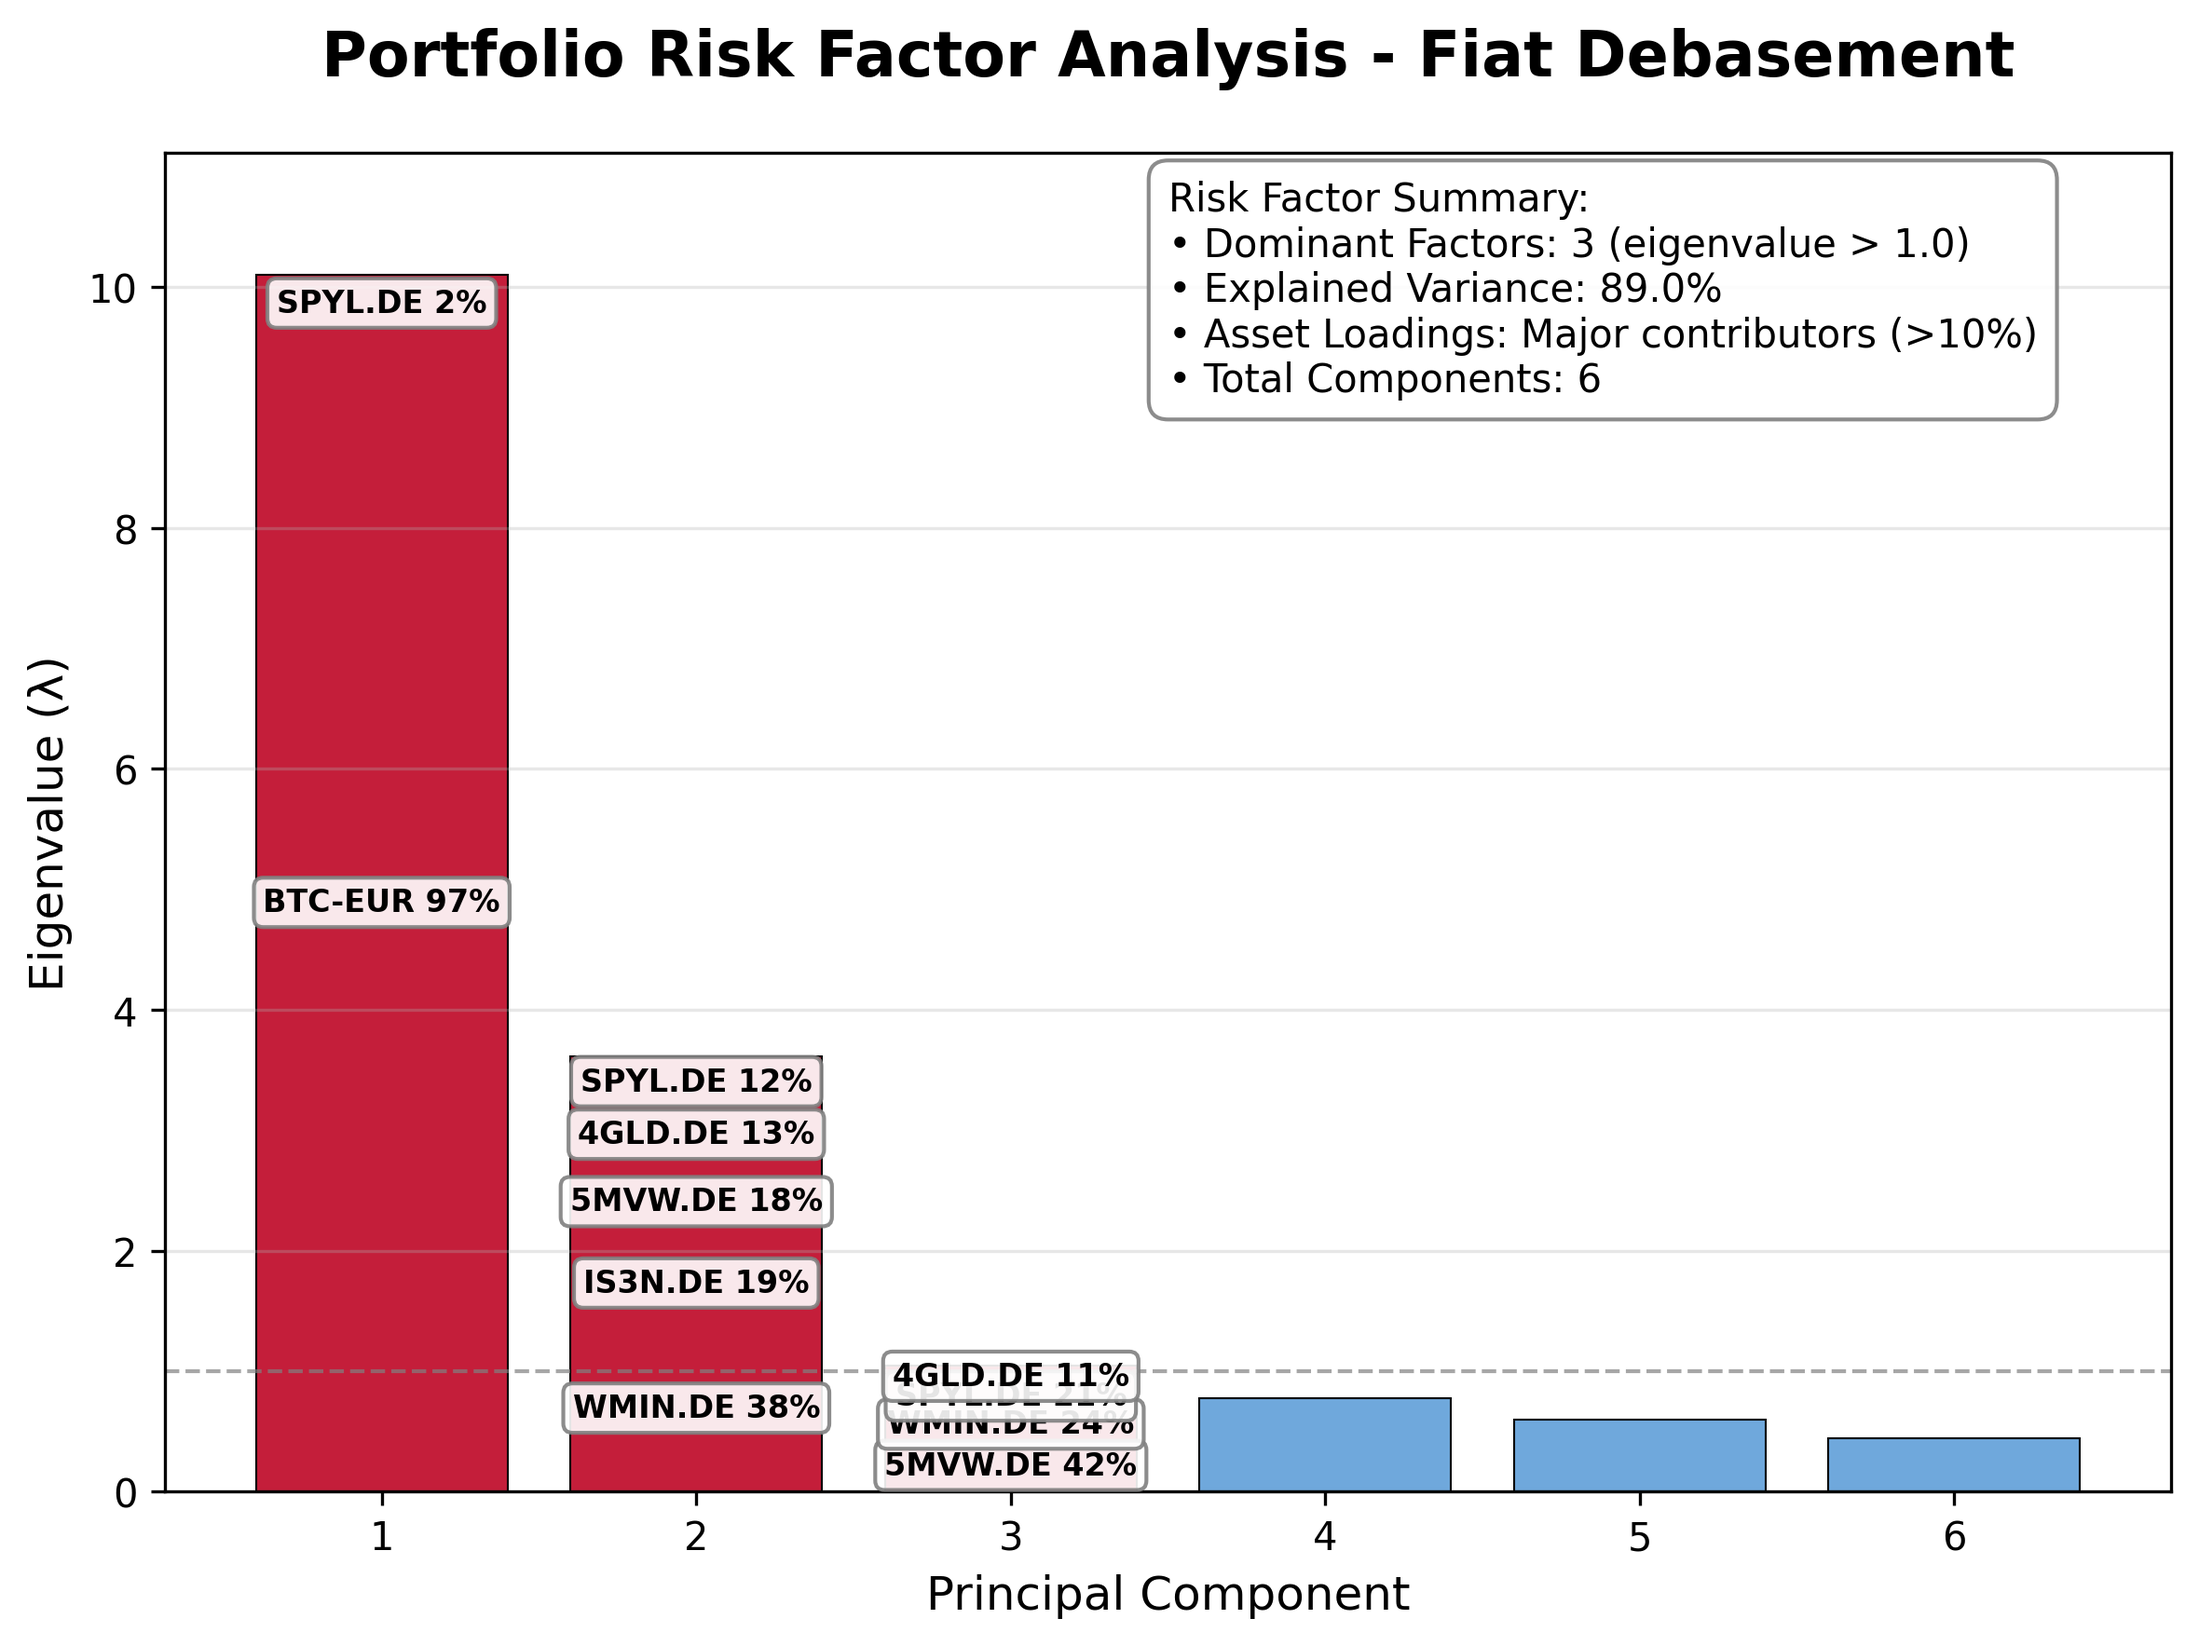
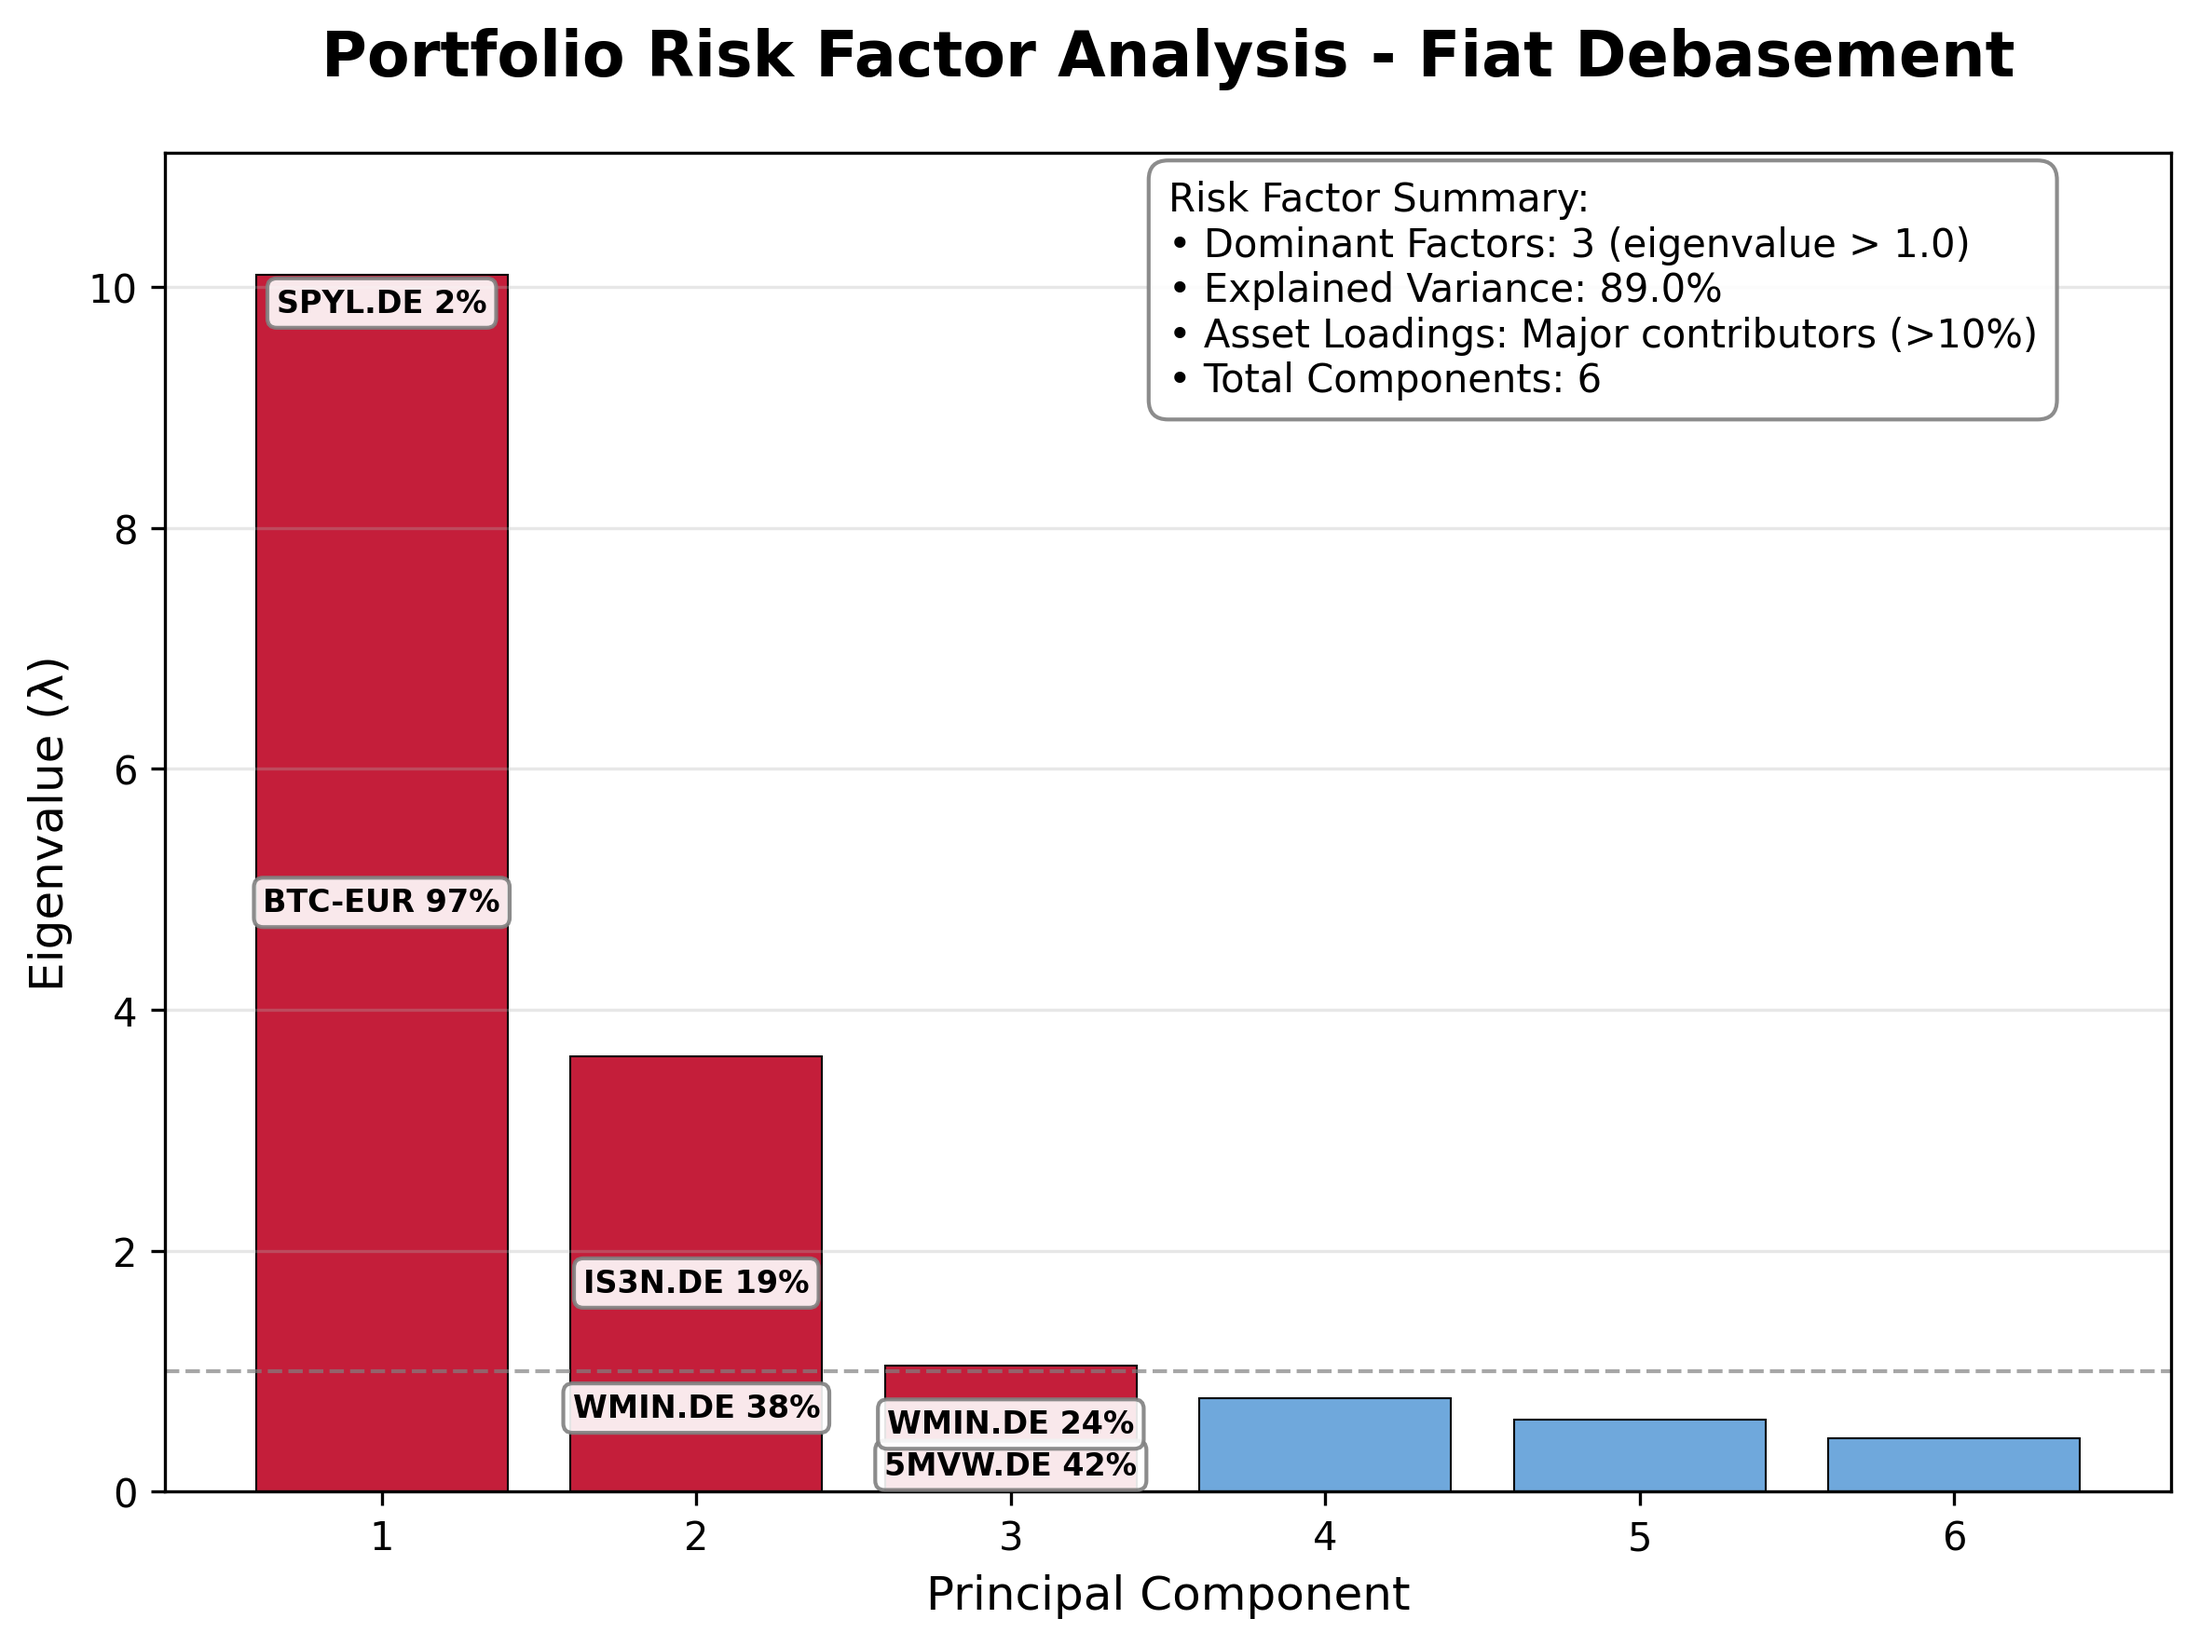
Update binary charts for Monte Carlo simulations and risk factor analyses
- Improved the `get_cov_matrix_analysis` function to refine asset selection based on eigenvalue thresholds, ensuring more relevant asset analysis in the context of portfolio risk assessment.

Changed region(s): [[0.2475, 0.6225, 0.4021, 0.747], [0.4021, 0.8093, 0.5258, 0.8715]]

diff --git a/src/monte_carlo.py b/src/monte_carlo.py
@@ -277,10 +277,15 @@ def get_cov_matrix_analysis(cov_matrix, tickers):
 
         # # Smart selection: Top 2 OR all above threshold, whichever gives more
         top_2 = pc_assets[:2]
+        eigval_is_small = eigval < 5.0
         above_threshold = [i for i in pc_assets if i["pct"] >= threshold]
 
         # # Use whichever gives more assets (but cap at 4 for readability)
-        selected_assets = above_threshold if len(above_threshold) > 2 else top_2
+        selected_assets = (
+            above_threshold
+            if len(above_threshold) > 2 and not eigval_is_small
+            else top_2
+        )
 
         dominant_factor_loadings[pc_idx + 1] = selected_assets
 
